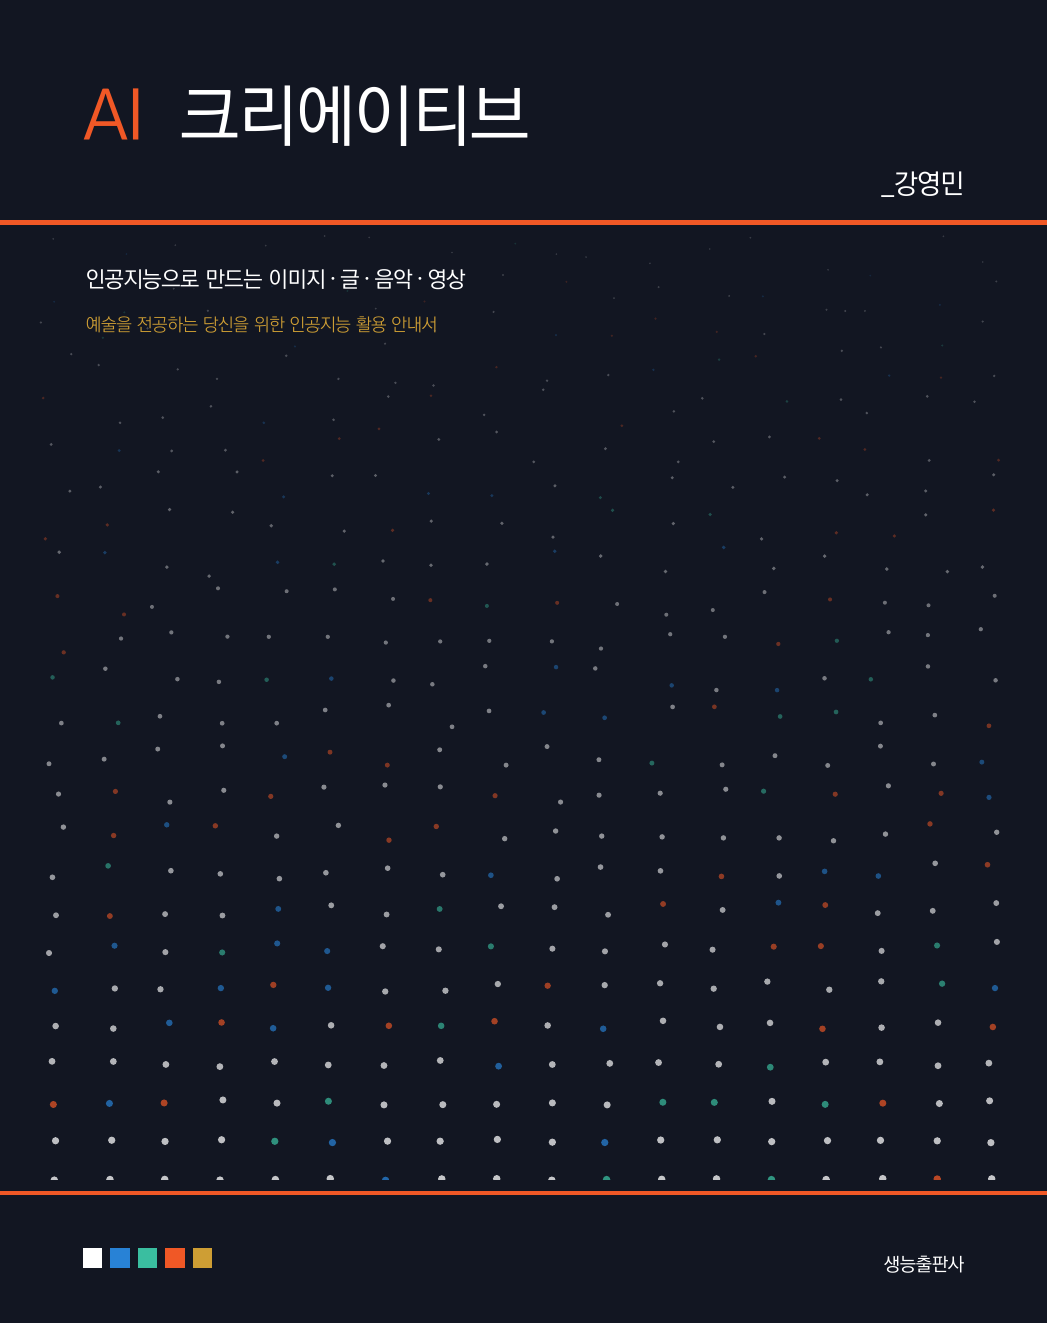
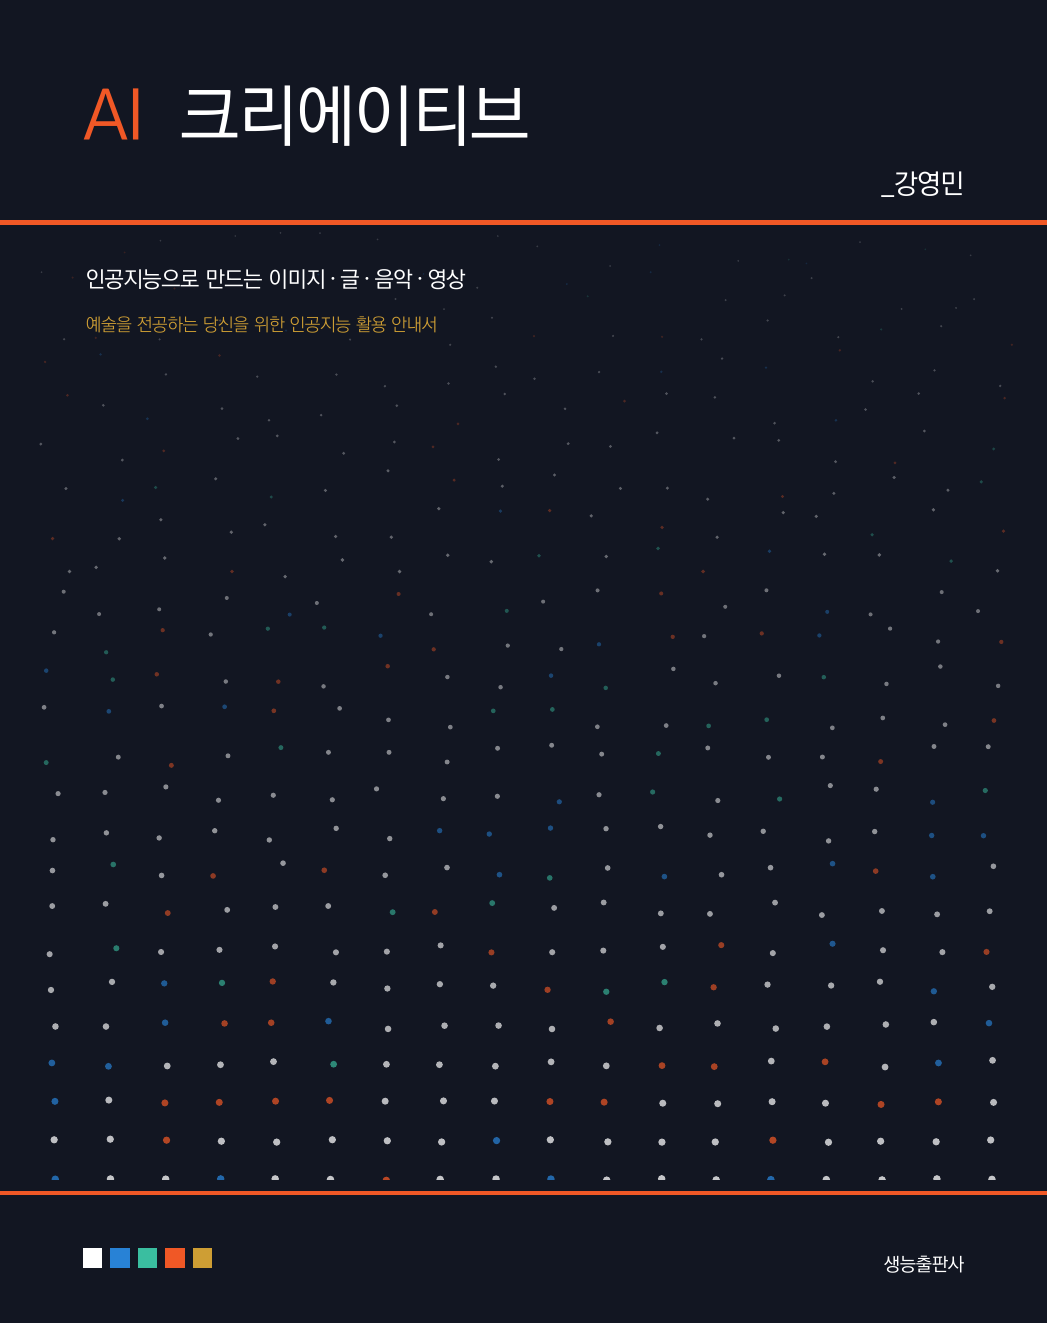
12.3절 「붙여 보면 무엇이 따라오는가」 추가 웹 반영
RAG 실습 자료 여덟 개를 붙인 채 기록과 무관한 새 이야기를 시킨 결과를
싣고, 스타일 축은 따라오지만 부정형 제약과 설정은 흘려보낸다는 관찰을
정리했다. 반드시 지킬 제약은 시스템 지시문의 [제약] 항목에 다시 적으라는
지침으로 12.2절과 이었다.

- 그림 추가: img/ch12/ch12_img02.jpg (latex/images/rag_result.png)
- cover.png는 빌드 파이프라인 재인코딩에 따른 바이트 변화

diff --git a/docs/book/ch12.html b/docs/book/ch12.html
@@ -252,34 +252,51 @@
 경향을 정리해 줘. 그리고 내가 한 번도 안 써 본 방향을
 세 가지 제안해 줘. 기록에 있는 실제 프롬프트를 인용해서 설명해 줘.</code></pre><div class="listing-caption">프롬프트 12.3: 자기 자료를 근거로 답하게 하기</div></div>
 <p data-blk="chapters/ch12/sec03.tex#15"><strong>실제 프롬프트를 인용하라</strong>는 지시가 중요하다. 인용을 요구하면 모델이 자료를 실제로 참조하게 되고, 우리도 그 답이 자료에 근거한 것인지 확인할 수 있다.</p>
-<h3 data-blk="chapters/ch12/sec03.tex#16">환각을 더 줄이는 지시</h3>
-<p data-blk="chapters/ch12/sec03.tex#17">자료를 붙여도 모델은 아는 척을 할 수 있다. 지시로 막는다.</p>
+<h3 data-blk="chapters/ch12/sec03.tex#16">붙여 보면 무엇이 따라오는가</h3>
+<p data-blk="chapters/ch12/sec03.tex#17">말로만 들으면 감이 오지 않으니 실제로 붙여 본 결과를 보자. 아래는 한 학기 동안 웹툰 작업을 한 학생이 남긴 기록 묶음이다. 특별할 것 없이 이 책이 시킨 양식을 그대로 따랐을 뿐이다.</p>
+<div class="settingbox-wrap"><div class="setting-label">첨부한 자료 여덟 개</div><pre class="settingbox"><code>01 프롬프트기록.txt     이미지 생성 기록 14회분          (4.5절)
+02 변형실험표.txt       매체·조명·색 어휘 비교 실험 3건   (4.5절)
+03 나만의어휘목록.txt   좋아하는 이미지를 네 축으로 분해   (실습 4-6)
+04 톤앤매너.txt         기준값과 '피할 것'               (9.2절)
+05 인물카드.txt         두 인물의 어휘·문장·말버릇·회피   (실습 8-4)
+06 설정문서.txt         인물·장소·규칙·하지 않을 것       (8.1절)
+07 컷계획표.txt         8컷의 장면·대사·프롬프트 초안     (9.3절)
+08 점검목록.txt         공개 전 점검                     (5.6절)</code></pre></div>
+<p data-blk="chapters/ch12/sec03.tex#18">이 여덟 개를 붙여 둔 채 <strong>기록과 아무 상관 없는 새 이야기</strong>를 하나 시켰다. 기록 속 프로젝트는 그림을 못 그리게 된 미대생의 조용한 이야기였는데, 이번에는 도시의 밤을 배경으로 한 범죄물을 네 컷으로 그려 달라고 한 것이다. 그림체에 대해서는 한 마디도 하지 않았다.</p>
+<figure class="fig"><img class="shot" src="img/ch12/ch12_img02.jpg" alt="figure"><figcaption>여덟 개의 기록을 붙인 채 전혀 다른 이야기를 시킨 결과</figcaption></figure>
+<p data-blk="chapters/ch12/sec03.tex#20">눈여겨볼 것이 둘 있다.</p>
+<p data-blk="chapters/ch12/sec03.tex#21">첫째, <strong>그림체가 기록에서 그대로 따라왔다.</strong> 이번 요청에는 매체도 색도 조명도 적지 않았는데 결과는 과슈 질감에 채도를 낮춘 푸른 회색과 크림색, 눈높이 시점, 비 오는 날의 흐린 빛으로 나왔다. 이것은 01번 기록에서 열네 번에 걸쳐 반복된 조합이고, 04번 톤앤매너에 기준값으로 적혀 있던 바로 그 조합이다. <strong>프롬프트 기록은 취향의 기록이기도 하다.</strong> 붙여 두면 새 작업에도 자기 그림체가 따라온다. 4.5절에서 기록을 자산이라고 부른 이유가 여기서 눈에 보이는 형태로 나타난다.</p>
+<p data-blk="chapters/ch12/sec03.tex#22">둘째, <strong>따라오지 않은 것도 있다.</strong> 04번 톤앤매너의 <em>피할 것</em> 항목에는 <em>과장된 표정</em>이 분명히 적혀 있지만 마지막 칸의 인물은 입을 크게 벌리고 소리치고 있다. 06번 설정 문서의 인물도 장소도 이번 결과에는 하나도 쓰이지 않았다. 모델은 자료에서 <strong>스타일 축은 가져오고 제약과 설정은 흘려보냈다.</strong></p>
+<div class="box keypoint"><span class="chip">요점</span><p>자료를 붙였다고 자료가 지켜지는 것은 아니다. <strong>옮겨 오기 쉬운 것과 그렇지 않은 것이 있다.</strong> 매체·색·조명처럼 <em>여러 번 반복해서 적힌 값</em>은 잘 따라오고, <em>하지 말 것</em>처럼 부정형으로 한 번 적힌 제약은 잘 잊힌다. 4.1절에서 부정 지시가 긍정 지시보다 약하다고 한 이야기가 여기서 다시 나타난다. 그러므로 <strong>반드시 지켜야 할 제약은 자료에만 적어 두지 말고</strong> 12.2절 시스템 지시문의 [제약] 항목에 다시 적는다.</p></div>
+<p data-blk="chapters/ch12/sec03.tex#24">거꾸로 이 성질을 이용할 수도 있다. 자기 기록을 붙여 두면 <em>내 그림체로 그려 줘</em>라고 말할 필요가 없어진다. 말로 설명하기 어려웠던 자기 스타일이 <strong>기록이라는 형태로 이미 정리되어 있기</strong> 때문이다. 5.3절에서 남의 작가 이름 대신 특징을 쓰라고 했는데, 그 특징 목록을 스스로 쌓아 둔 것이 바로 이 기록이다.</p>
+<h3 data-blk="chapters/ch12/sec03.tex#25">환각을 더 줄이는 지시</h3>
+<p data-blk="chapters/ch12/sec03.tex#26">자료를 붙여도 모델은 아는 척을 할 수 있다. 지시로 막는다.</p>
 <div class="settingbox-wrap"><div class="setting-label">환각 억제 지시문</div><pre class="settingbox"><code>- 첨부한 자료에 없는 내용은 답하지 마라.
 - 자료에 없으면 "자료에 없습니다"라고 말하라.
 - 답변할 때 근거가 된 부분을 인용하라.
 - 추측이 섞였다면 그 부분을 명시하라.</code></pre></div>
-<p data-blk="chapters/ch12/sec03.tex#18">이 네 줄을 어시스턴트의 시스템 지시문에 넣어 두면 신뢰도가 크게 오른다.</p>
-<div class="box caution"><span class="chip">주의</span><p data-blk="chapters/ch12/sec03.tex#19"><strong>완전히 막히지는 않는다.</strong> 자료에 없는데도 그럴듯한 답을 만드는 경우가 여전히 있다. 사실이 중요한 작업에서는 3.1절의 원칙이 그대로 유효하다. <strong>확인할 수 없는 사실 진술은 그대로 쓰지 않는다.</strong></p>
+<p data-blk="chapters/ch12/sec03.tex#27">이 네 줄을 어시스턴트의 시스템 지시문에 넣어 두면 신뢰도가 크게 오른다.</p>
+<div class="box caution"><span class="chip">주의</span><p data-blk="chapters/ch12/sec03.tex#28"><strong>완전히 막히지는 않는다.</strong> 자료에 없는데도 그럴듯한 답을 만드는 경우가 여전히 있다. 사실이 중요한 작업에서는 3.1절의 원칙이 그대로 유효하다. <strong>확인할 수 없는 사실 진술은 그대로 쓰지 않는다.</strong></p>
 </div>
-<h3 data-blk="chapters/ch12/sec03.tex#20">자료를 잘 만드는 법</h3>
-<p data-blk="chapters/ch12/sec03.tex#21">넣는 자료가 정리되어 있을수록 답이 좋아진다.</p>
-<ul data-blk="chapters/ch12/sec03.tex#22">
+<h3 data-blk="chapters/ch12/sec03.tex#29">자료를 잘 만드는 법</h3>
+<p data-blk="chapters/ch12/sec03.tex#30">넣는 자료가 정리되어 있을수록 답이 좋아진다.</p>
+<ul data-blk="chapters/ch12/sec03.tex#31">
 <li><strong>제목과 항목을 명확히.</strong> 문단만 죽 이어진 글보다 항목으로 나뉜 문서가 낫다</li>
 <li><strong>한 파일에 한 주제.</strong> 여러 주제를 한 파일에 섞으면 엉뚱한 부분을 참조한다</li>
 <li><strong>최신본만 넣는다.</strong> 옛 버전이 함께 있으면 어느 것을 따를지 헷갈린다</li>
 <li><strong>용어를 통일한다.</strong> 같은 인물을 어떤 곳에서는 이름으로, 어떤 곳에서는 별명으로 쓰면 연결이 끊긴다</li>
 </ul>
-<div class="box keypoint"><span class="chip">요점</span><p data-blk="chapters/ch12/sec03.tex#23">이 조건들은 <strong>사람이 읽기 좋은 문서의 조건</strong>과 정확히 같다. 인공지능을 위해 따로 작업할 필요가 없고, 평소에 자료를 잘 정리하면 그대로 쓸모가 된다.</p>
+<div class="box keypoint"><span class="chip">요점</span><p data-blk="chapters/ch12/sec03.tex#32">이 조건들은 <strong>사람이 읽기 좋은 문서의 조건</strong>과 정확히 같다. 인공지능을 위해 따로 작업할 필요가 없고, 평소에 자료를 잘 정리하면 그대로 쓸모가 된다.</p>
 </div>
-<h3 data-blk="chapters/ch12/sec03.tex#24">개인 정보에 주의</h3>
-<p data-blk="chapters/ch12/sec03.tex#25">자료를 올린다는 것은 그 서비스에 자료를 넘긴다는 뜻이다. 5.2절에서 확인한 <strong>입력 자료의 학습 이용</strong> 조항이 여기서 실제 문제가 된다.</p>
-<ul data-blk="chapters/ch12/sec03.tex#26">
+<h3 data-blk="chapters/ch12/sec03.tex#33">개인 정보에 주의</h3>
+<p data-blk="chapters/ch12/sec03.tex#34">자료를 올린다는 것은 그 서비스에 자료를 넘긴다는 뜻이다. 5.2절에서 확인한 <strong>입력 자료의 학습 이용</strong> 조항이 여기서 실제 문제가 된다.</p>
+<ul data-blk="chapters/ch12/sec03.tex#35">
 <li>남의 개인 정보가 담긴 자료를 올리지 않는다</li>
 <li>미공개 작업물은 학습 이용 여부를 확인하고 올린다</li>
 <li>팀 프로젝트라면 팀원의 동의를 받는다</li>
 <li>학교나 기관의 내부 자료는 규정을 확인한다</li>
 </ul>
-<div class="box caution"><span class="chip">주의</span><p data-blk="chapters/ch12/sec03.tex#27">설문 응답, 인터뷰 녹취, 참여자 명단처럼 <strong>다른 사람의 정보가 담긴 자료</strong>는 특히 조심한다. 연구나 프로젝트에서 수집한 자료를 그대로 올리는 것은 동의 범위를 벗어나는 경우가 많다.</p>
+<div class="box caution"><span class="chip">주의</span><p data-blk="chapters/ch12/sec03.tex#36">설문 응답, 인터뷰 녹취, 참여자 명단처럼 <strong>다른 사람의 정보가 담긴 자료</strong>는 특히 조심한다. 연구나 프로젝트에서 수집한 자료를 그대로 올리는 것은 동의 범위를 벗어나는 경우가 많다.</p>
 </div>
 <h2 data-blk="chapters/ch12/sec04.tex#1" id="sec4">12.4 에이전트란 무엇인가</h2>
 <p data-blk="chapters/ch12/sec04.tex#2">요즘 자주 들리는 말이다. 개념을 정확히 알아 두면 과장된 이야기와 실제로 되는 것을 구분할 수 있다.</p>
